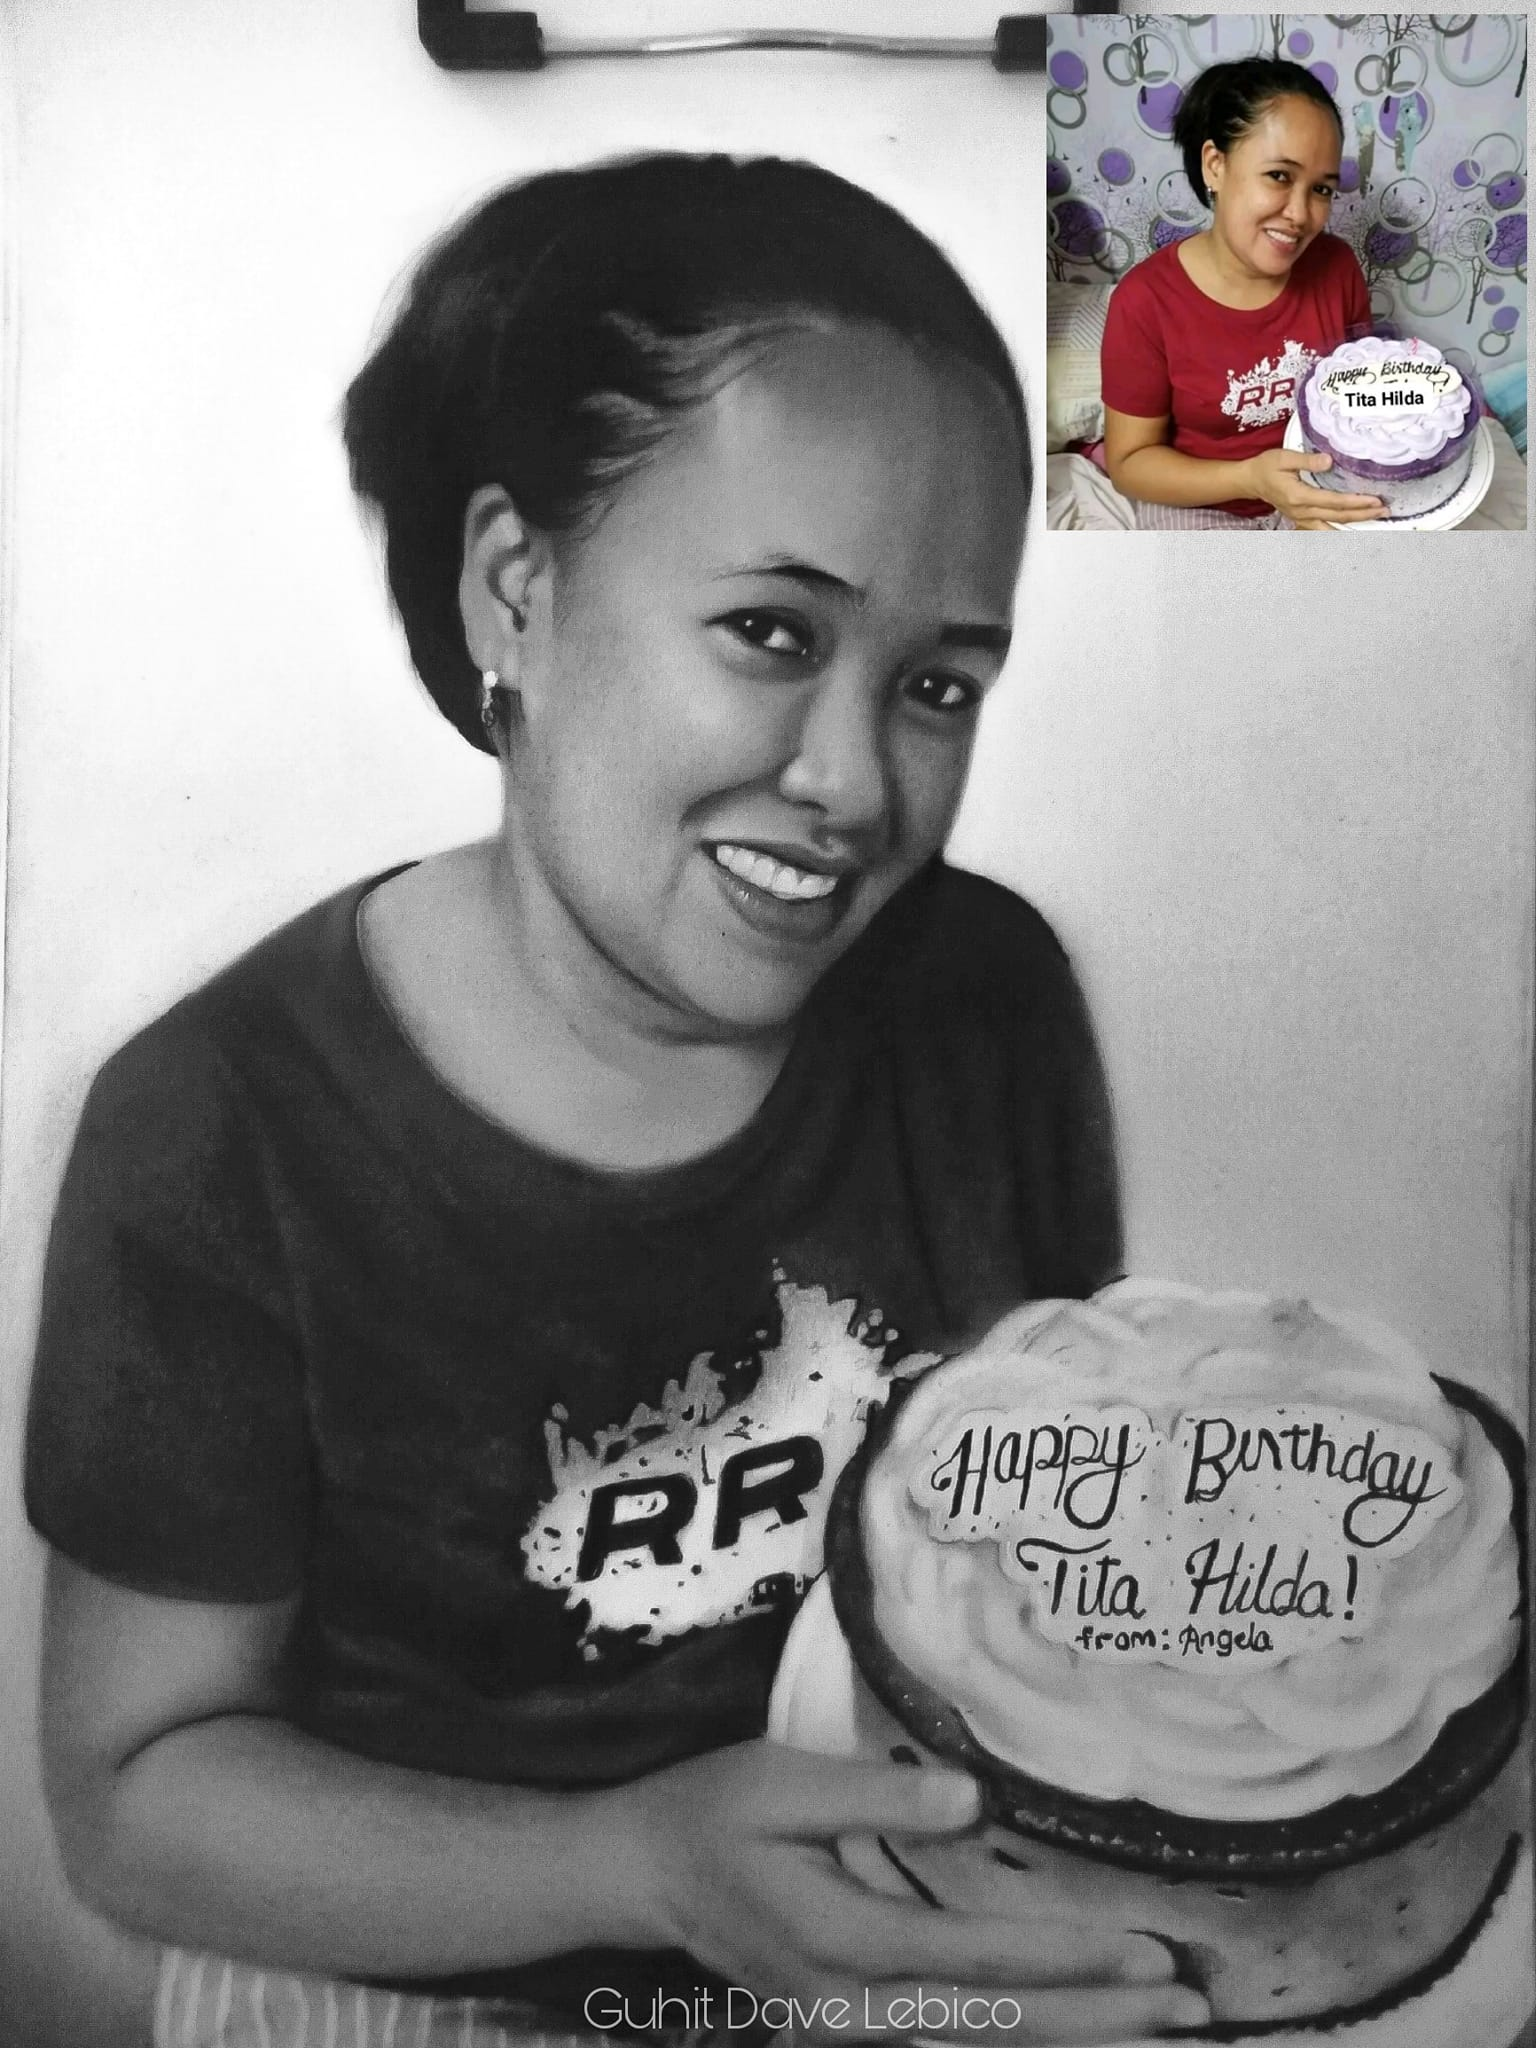
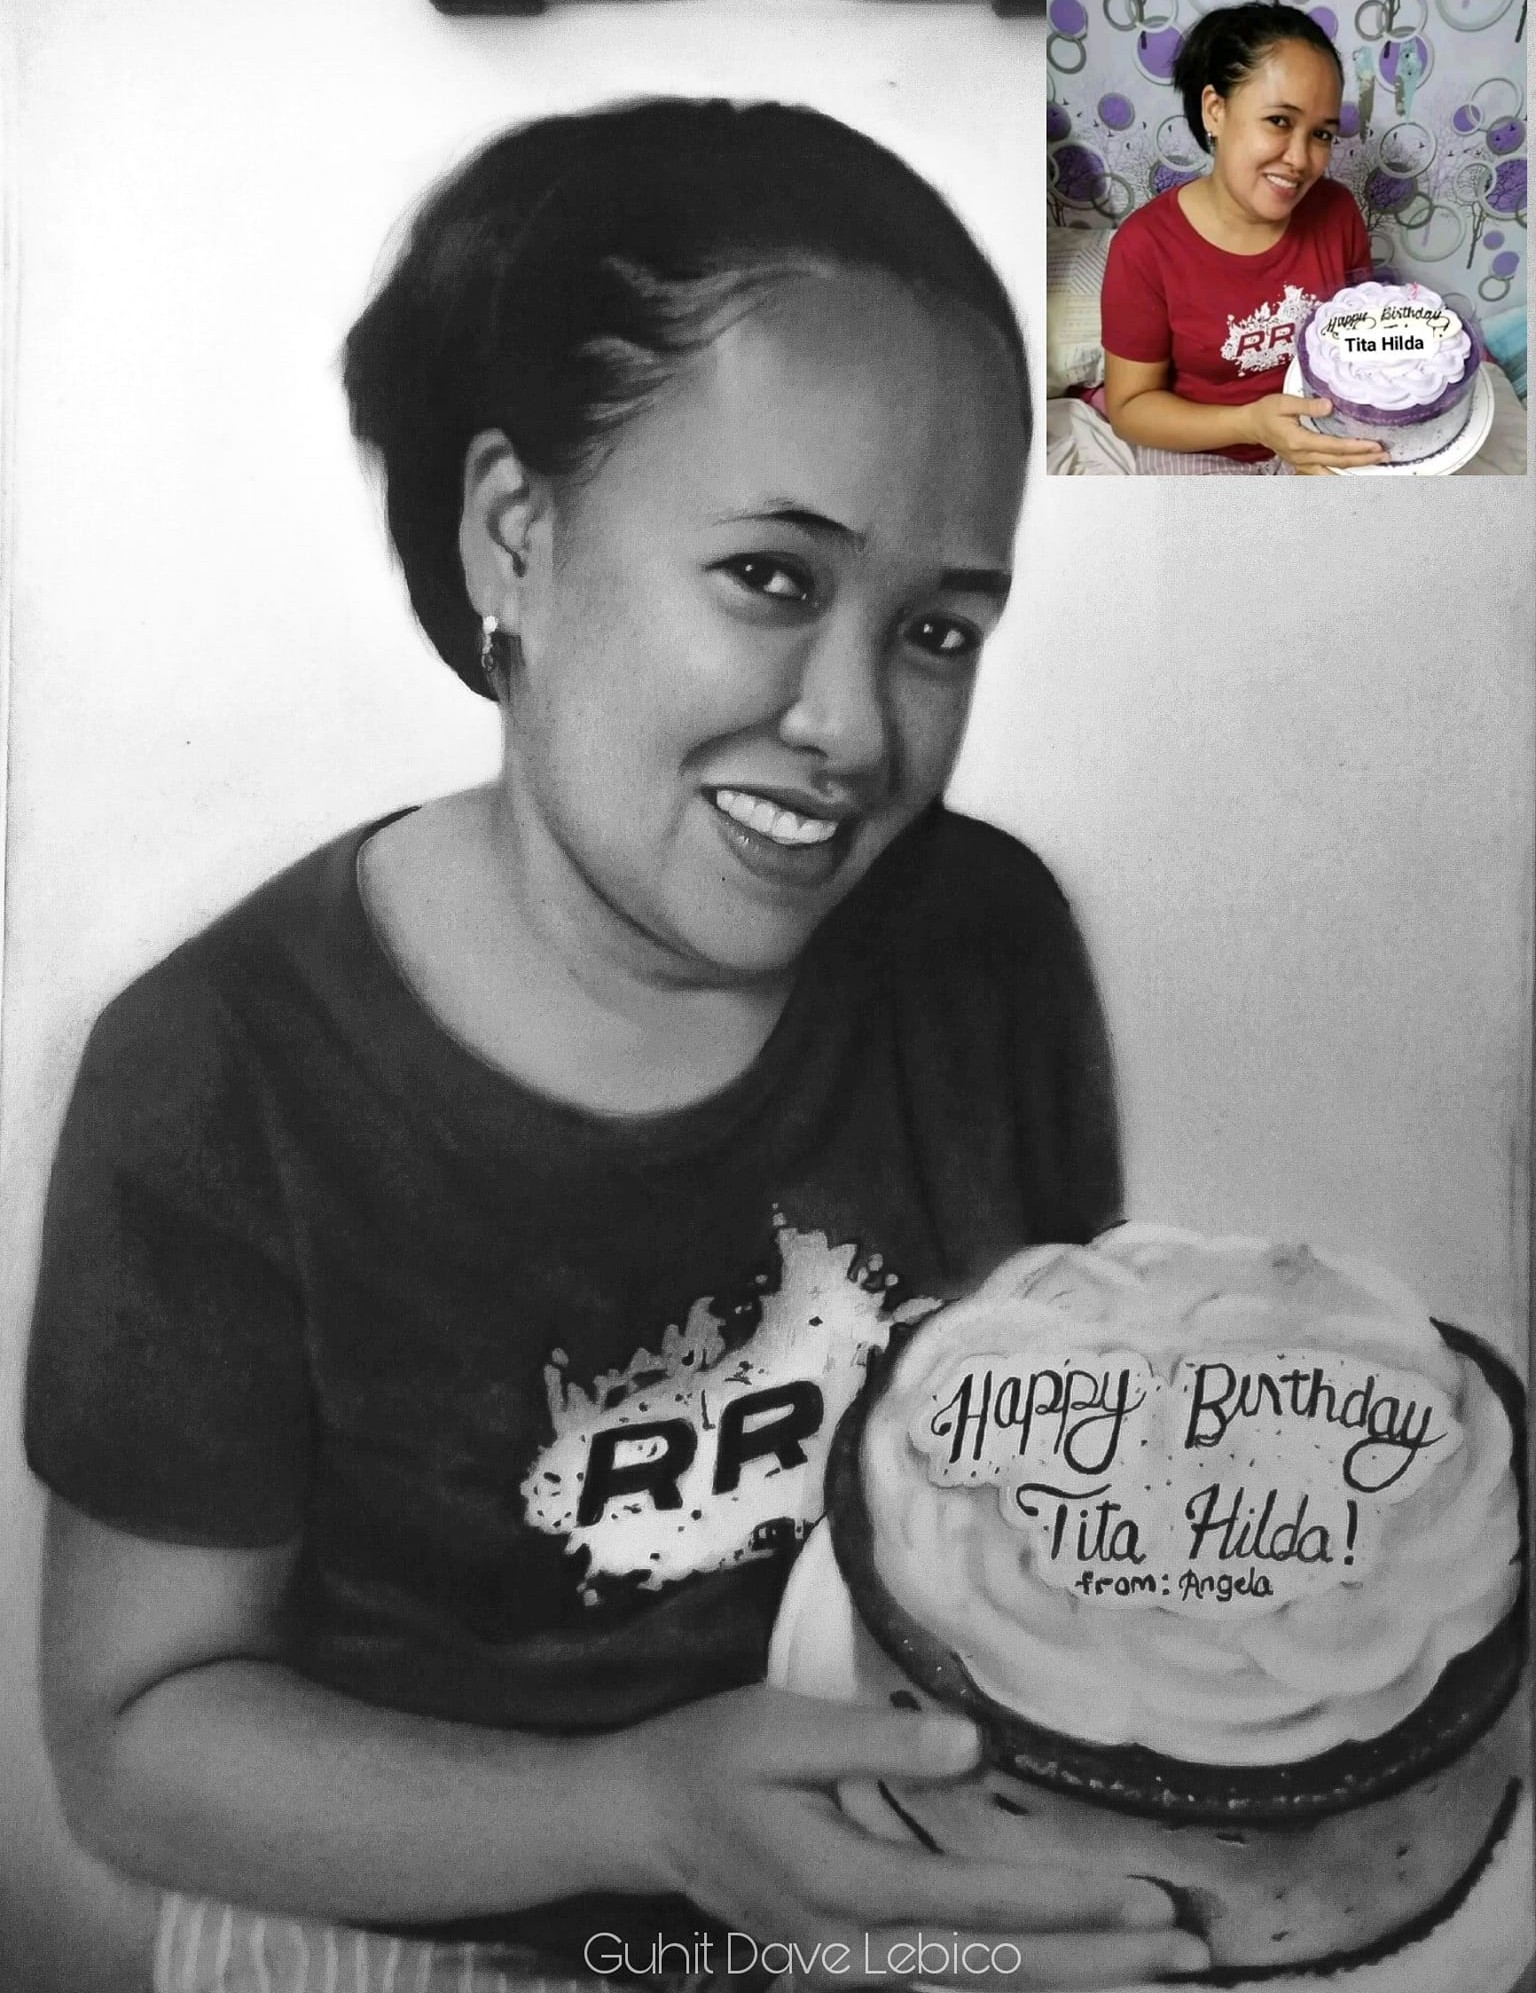
adeleted incorrect uploaded images and uploaded the right ones.  Make the wrapper images aspect ratio of 1 / 1 to make it square

diff --git a/index.html b/index.html
@@ -59,7 +59,7 @@
             <ul class=card-list>
                 <ul class="card-item">
                     <a href="#" class="card-link">
-                        <img src="images/Anj.jpg" alt="Card Image" class="card-image">
+                        <img src="images/img1.jpg" alt="Card Image" class="card-image">
                         <p class="badge"> Commssioned </p>
                         <h2 class="card-title">Commissioned artwork on 2024</h2>
                         <button class="card-button
@@ -78,7 +78,7 @@
             <ul class=card-list>
                 <ul class="card-item">
                     <a href="#" class="card-link">
-                        <img src="images/Anj.jpg" alt="Card Image" class="card-image">
+                        <img src="images/img2.jpg" alt="Card Image" class="card-image">
                         <p class="badge"> Commssioned </p>
                         <h2 class="card-title">Commissioned artwork on 2024</h2>
                         <button class="card-button
@@ -97,7 +97,7 @@
             <ul class=card-list>
                 <ul class="card-item">
                     <a href="#" class="card-link">
-                        <img src="images/Anj.jpg" alt="Card Image" class="card-image">
+                        <img src="images/img3.jpg" alt="Card Image" class="card-image">
                         <p class="badge"> Commssioned </p>
                         <h2 class="card-title">Commissioned artwork on 2024</h2>
                         <button class="card-button

diff --git a/style.css b/style.css
@@ -198,13 +198,17 @@ body {
     text-decoration: none;
     margin-left: clamp(5px, 1vw, 1px);
     box-shadow: 10px 10px 10px  rgba(21, 71, 40, 0.8);
+    object-fit: cover;
+    aspect-ratio: 1/1;
 }
 
 .card-list .card-link .card-image{
     border-radius: 15px;
     width: 100%;
+    height: 100%;
     border: 6px solid #ffbd59;
     margin: -5px -5px;
+    
 }
 
 .card-list .card-item .card-link .card-button{
